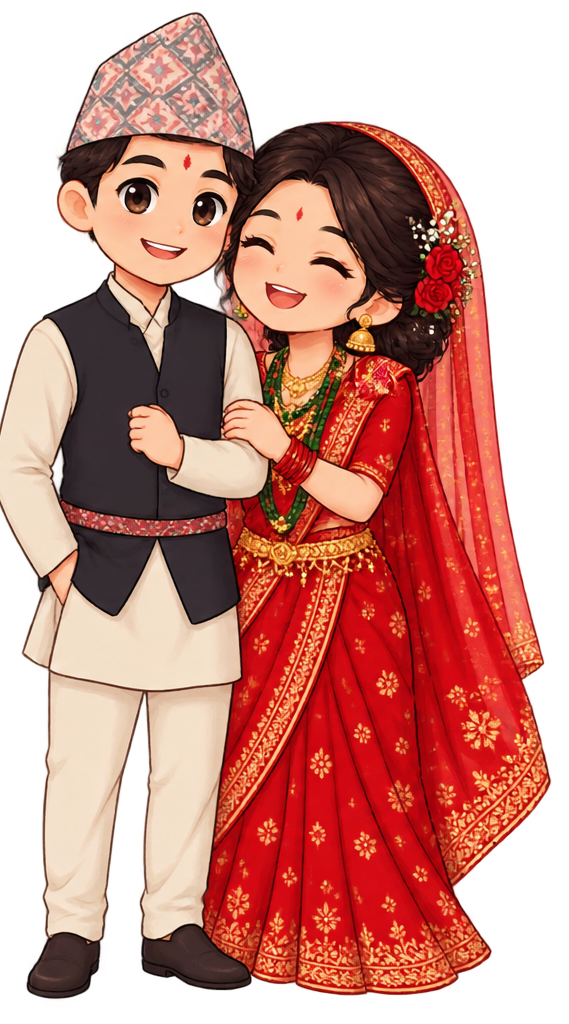
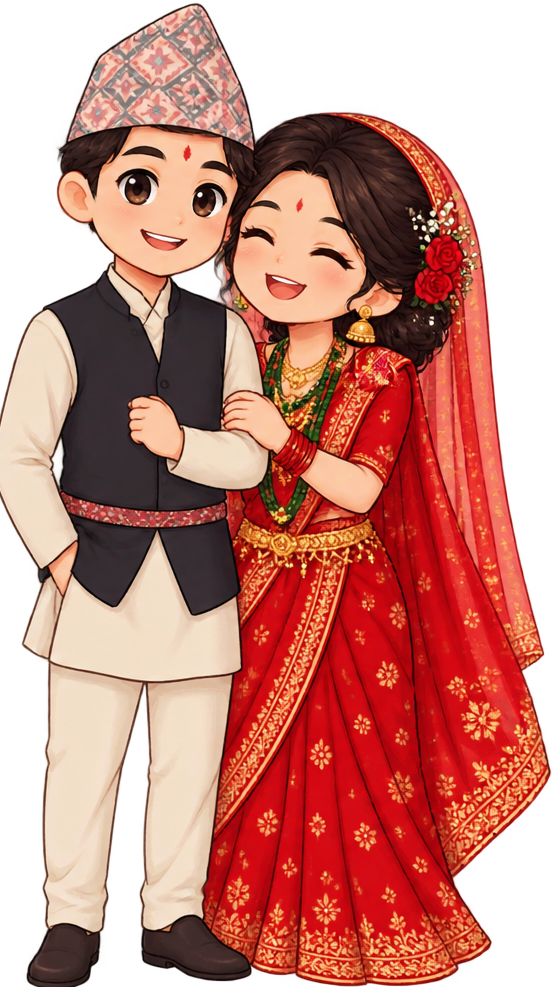
modified the cartoon pics

diff --git a/index.html b/index.html
@@ -149,15 +149,15 @@
 	/* Cartoon Illustration */
 	.event-illustration {
 	  position: absolute;
-	  top: -45px;
+	  top: -35px;
 	  right: -10px;
-	  width: 95px;
-	  height: 95px;
+	  width: 85px;
+	  height: 85px;
 	}
 
 	.event-illustration img {
-	  width: 100%;
-	  height: 100%;
+	  width: 90%;
+	  height: 90%;
 	  object-fit: contain;
 	}
 
@@ -287,10 +287,10 @@
 		  </article>
 
 
-		<!-- Bride's Event -->
+		<!-- Bride's Event (Mehendi) -->
 		<article class="event bride">
 		  <div class="event-illustration">
-			<img src="images/bride-cartoon.png" alt="Cute cartoon bride">
+			<img src="images/mehendi_cartoon.png" alt="Cute cartoon bride">
 		  </div>
 
 		  <div class="number">02</div>
@@ -309,10 +309,10 @@
 		</article>
 
 
-		  <!-- Groom’s Event -->
+		  <!-- Groom’s Event (Wedding) -->
 		  <article class="event groom">
 			<div class="event-illustration">
-			  <img src="images/groom-cartoon.png" alt="Cute cartoon groom">
+			  <img src="images/wedding_cartoon.png" alt="Cute cartoon groom">
 			</div>
 			<div class="number">03</div>
 			<h3>Wedding Ceremony</h3>
@@ -320,7 +320,7 @@
 			<p>Wedding venue · Jhapa</p>
 		  </article>
 
-		  <!-- Shared Event -->
+		  <!-- Shared Event (Reception) -->
 		  <article class="event bride">
 			<div class="event-illustration">
 			  <img src="images/couple-cartoon.png" alt="Cute cartoon bride and groom">
